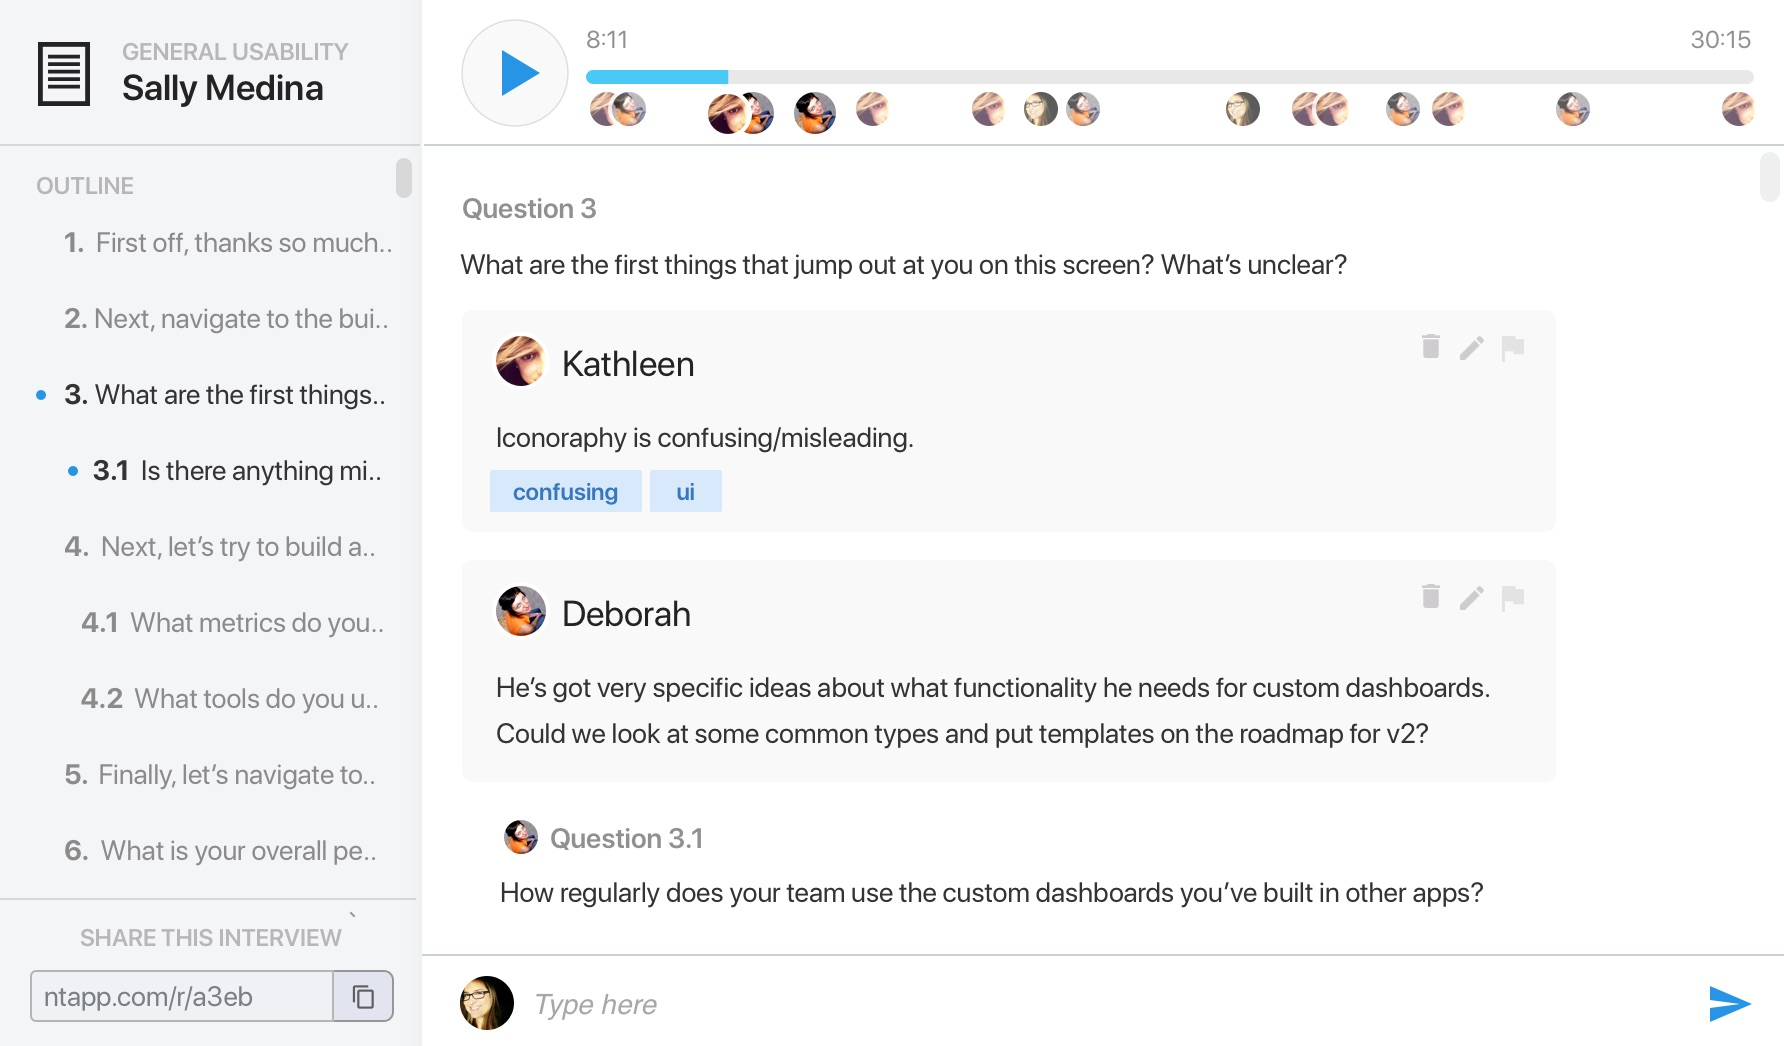
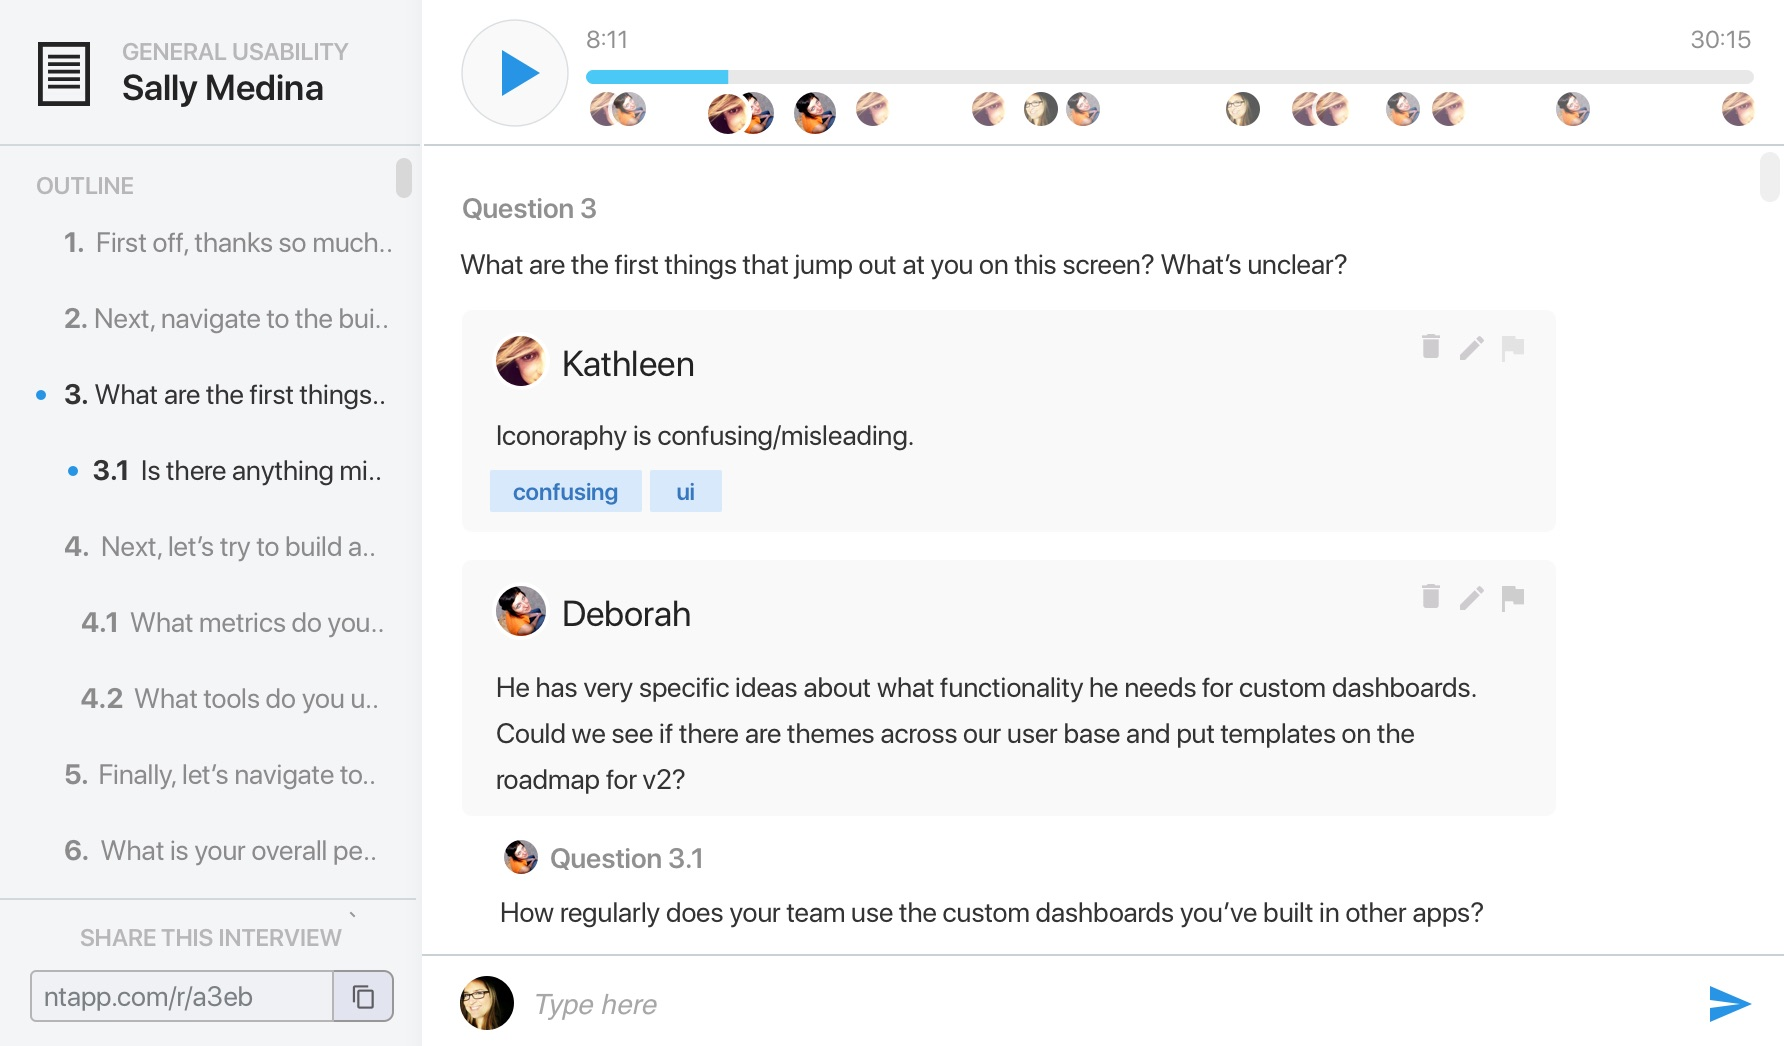
fixed some grammatical errors

Changed region(s): [[0.2775, 0.6424, 0.8324, 0.8872], [0.2775, 0.3977, 0.5241, 0.4283]]

diff --git a/css/front.css b/css/front.css
@@ -428,13 +428,19 @@ article > div {
     max-width: 110%;
     margin-right: -6rem;
     border-radius: .3rem;
-    max-height: 35rem; }
-  #preview.record > img:not(.record) {
-    display: none; }
-  #preview.review > img:not(.review) {
-    display: none; }
-  #preview.email > img:not(.email) {
-    display: none; }
+    max-height: 35rem;
+    transition: opacity .2s ease-in-out;
+    visibility: collapse;
+    opacity: 0; }
+  #preview.record > img.record {
+    visibility: visible;
+    opacity: 1; }
+  #preview.review > img.review {
+    visibility: visible;
+    opacity: 1; }
+  #preview.email > img.email {
+    visibility: visible;
+    opacity: 1; }
 
 #signup {
   background: var(--white);

diff --git a/css/front.scss b/css/front.scss
@@ -505,11 +505,14 @@ article > div { padding: .5rem; }
         margin-right: -6rem;
         border-radius: .3rem;
         max-height: 35rem;
+        transition: opacity .2s ease-in-out;
+        visibility: collapse;
+        opacity: 0;
         }
 
-    &.record > img:not(.record) { display: none;}
-    &.review > img:not(.review) { display: none;}
-    &.email > img:not(.email) { display: none;}
+    &.record > img.record { visibility: visible; opacity: 1;}
+    &.review > img.review { visibility: visible; opacity: 1;}
+    &.email > img.email { visibility: visible; opacity: 1; }
 
     }
 
